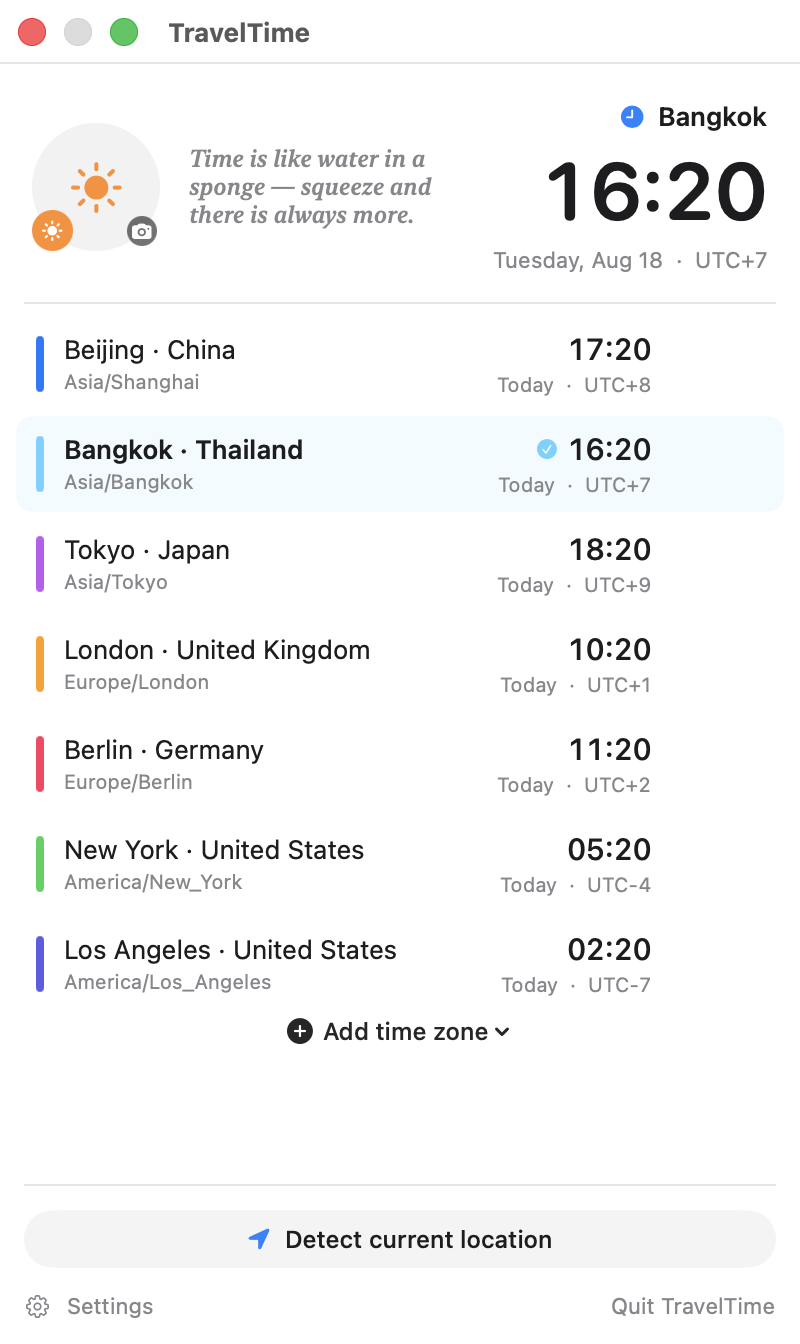
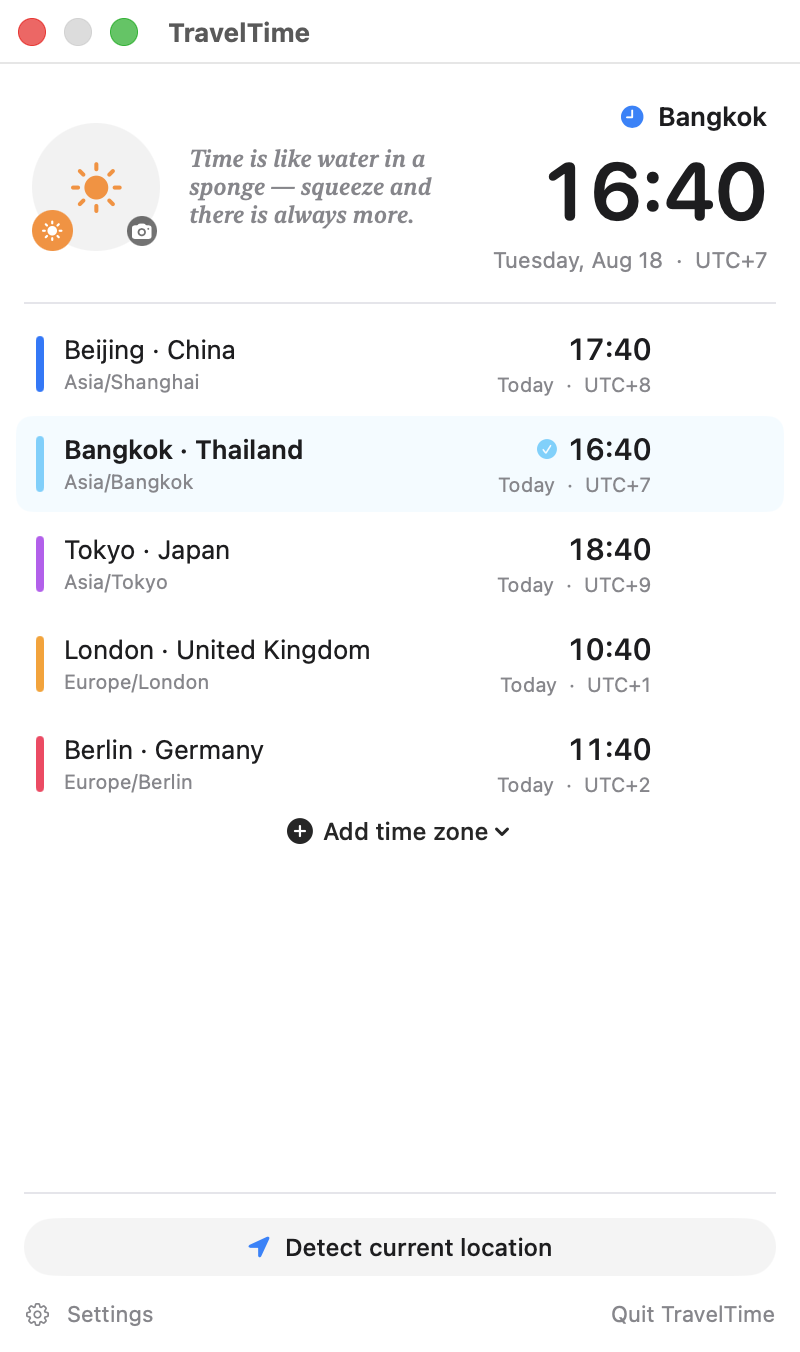
Fix panel auto-height and update-bundle resolution
Two code defects found while documenting the project (see prior
CHANGELOG entries for the read-only investigation).

AppDelegate panel height
The launch-time window height was fixed at 640 pt regardless of zone
count, because updatePanelHeight() was only reachable through store
callbacks assigned *after* the store had already loaded its zones and
fired their didSet. Measured at 672 pt for both 3 and 12 zones.

Fix:
* The sizing rule is now a pure static function
  AppDelegate.panelContentHeight(zoneCount:theme:), pinned by three new
  unit tests.
* setupPanel() calls updatePanelHeight() once the store and window
  exist, so the initial window fits the loaded zones.
* Existing didSet callbacks still resize the window on add/remove and
  on theme change.

Updater app-bundle lookup
Updater.update hardcoded tmp.appendingPathComponent("TravelTime.app")
after extraction, so every published release (named TimeZoneBar.app.zip,
extracting to TimeZoneBar.app up to and including v1.3.3) failed with
"Could not unzip the installer". Combined with the previous build.sh
release packaging, users on v1.3.3 could not upgrade in place.

Fix:
* New nonisolated static Updater.appBundle(in:) scans the unzip
  directory for the first directory with the .app extension, verified
  with three new unit tests (legacy name, current name, no .app
  present).
* update(release:) uses it, accepting both legacy and current assets.

Tests: 18/18 passing (was 12, +6 new). swift build clean.
[…]

diff --git a/Tests/TravelTimeTests/TravelTimeTests.swift b/Tests/TravelTimeTests/TravelTimeTests.swift
@@ -170,4 +170,72 @@ final class TravelTimeTests: XCTestCase {
         }
         XCTAssertEqual(seen.count, TimeZoneStore.zonePalette.count)
     }
+
+    // MARK: - Panel auto-height (AppDelegate)
+
+    /// Regression for the launch-size bug: the window stayed at its hardcoded
+    /// initial height because updatePanelHeight() was only reachable through
+    /// store callbacks assigned after the store had already loaded its zones.
+    /// The sizing rule is now a pure function; these pin it down.
+    @MainActor
+    func testPanelContentHeightScalesWithZoneCount() {
+        XCTAssertEqual(AppDelegate.panelContentHeight(zoneCount: 3, theme: .minimal), 540)
+        XCTAssertEqual(AppDelegate.panelContentHeight(zoneCount: 12, theme: .minimal), 1008)
+        XCTAssertEqual(AppDelegate.panelContentHeight(zoneCount: 3, theme: .midnight), 540)
+    }
+
+    @MainActor
+    func testPanelContentHeightEditorialUsesMoreChrome() {
+        XCTAssertEqual(AppDelegate.panelContentHeight(zoneCount: 3, theme: .editorial), 622)
+    }
+
+    @MainActor
+    func testPanelContentHeightHasMinimum() {
+        // Even a single zone must not collapse below the header+footer floor.
+        XCTAssertEqual(AppDelegate.panelContentHeight(zoneCount: 0, theme: .minimal), 460)
+        XCTAssertEqual(AppDelegate.panelContentHeight(zoneCount: 1, theme: .minimal), 460)
+    }
+
+    // MARK: - App bundle discovery (Updater)
+
+    /// Regression for the update bug: releases up to v1.3.3 extract to
+    /// TimeZoneBar.app while the updater hardcoded TravelTime.app, so the
+    /// post-unzip guard always failed ("Could not unzip the installer").
+    func testAppBundleFindsLegacyName() throws {
+        let dir = FileManager.default.temporaryDirectory
+            .appendingPathComponent("tzbar-test-legacy-\(UUID().uuidString)")
+        try FileManager.default.createDirectory(
+            at: dir.appendingPathComponent("TimeZoneBar.app"),
+            withIntermediateDirectories: true)
+        defer { try? FileManager.default.removeItem(at: dir) }
+
+        let found = Updater.appBundle(in: dir)
+        XCTAssertEqual(found?.lastPathComponent, "TimeZoneBar.app")
+    }
+
+    func testAppBundleFindsCurrentName() throws {
+        let dir = FileManager.default.temporaryDirectory
+            .appendingPathComponent("tzbar-test-current-\(UUID().uuidString)")
+        try FileManager.default.createDirectory(
+            at: dir.appendingPathComponent("TravelTime.app"),
+            withIntermediateDirectories: true)
+        defer { try? FileManager.default.removeItem(at: dir) }
+
+        let found = Updater.appBundle(in: dir)
+        XCTAssertEqual(found?.lastPathComponent, "TravelTime.app")
+    }
+
+    func testAppBundleIgnoresZipAndScratchFiles() throws {
+        let dir = FileManager.default.temporaryDirectory
+            .appendingPathComponent("tzbar-test-nobundle-\(UUID().uuidString)")
+        try FileManager.default.createDirectory(at: dir, withIntermediateDirectories: true)
+        defer { try? FileManager.default.removeItem(at: dir) }
+
+        // An extracted archive dir still holds the zip and any notes; none of
+        // these is an app bundle, so discovery must come up empty.
+        try Data("zip".utf8).write(to: dir.appendingPathComponent("TravelTime.app.zip"))
+        try Data("notes".utf8).write(to: dir.appendingPathComponent("notes.txt"))
+
+        XCTAssertNil(Updater.appBundle(in: dir))
+    }
 }

diff --git a/Sources/TimeZoneBar/AppDelegate.swift b/Sources/TimeZoneBar/AppDelegate.swift
@@ -71,17 +71,24 @@ final class AppDelegate: NSObject, NSApplicationDelegate {
         }
     }
 
+    /// Content height (points) for a given zone count and theme.
+    ///
+    /// Pure function so the sizing rule is unit-testable. The "fixed chrome"
+    /// estimate covers header (~180-240) + list top/bottom padding (~20) +
+    /// footer (~150), with extra allowance for the editorial header layout.
+    static func panelContentHeight(zoneCount: Int, theme: Theme) -> CGFloat {
+        let fixedChrome: CGFloat = theme == .editorial ? 400 : 360
+        return max(460, fixedChrome + CGFloat(zoneCount) * theme.rowHeight + 24)
+    }
+
     /// Grows / shrinks the window so it exactly fits the number of zone rows.
     private func updatePanelHeight() {
         // setupPanel may not have run yet (e.g. a zones change during init),
         // so guard the implicit-unwrapped window.
         guard let panel = self.panel else { return }
-        let rowH = store.theme.rowHeight
-        // header (~180-240) + list top/bottom padding (~20) + footer (~150)
-        let fixedChrome: CGFloat = store.theme == .editorial ? 400 : 360
-        let wanted = fixedChrome + CGFloat(store.zones.count) * rowH + 24
+        let wanted = Self.panelContentHeight(zoneCount: store.zones.count, theme: store.theme)
         let width = panel.frame.width
-        panel.setContentSize(NSSize(width: width, height: max(460, wanted)))
+        panel.setContentSize(NSSize(width: width, height: wanted))
         panel.layoutIfNeeded()
     }
 
@@ -148,6 +155,13 @@ final class AppDelegate: NSObject, NSApplicationDelegate {
         p.contentView = hosting
         p.center()
         self.panel = p
+        // Size the window for the *current* zone list. The store's
+        // onZonesChanged callback is assigned in applicationDidFinishLaunching,
+        // which runs after `private let store = TimeZoneStore()` has already
+        // loaded the zones (and fired their didSet), so the callback could
+        // never size the initial window — it stayed at the hardcoded height
+        // above no matter how many zones were loaded. This call closes that gap.
+        updatePanelHeight()
     }
 
     private func togglePanel() {

diff --git a/Sources/TimeZoneBar/Updater.swift b/Sources/TimeZoneBar/Updater.swift
@@ -148,8 +148,11 @@ final class Updater: ObservableObject {
                 return
             }
 
-            let newApp = tmp.appendingPathComponent("TravelTime.app")
-            guard FileManager.default.fileExists(atPath: newApp.path) else {
+            // The .app inside the zip may be named either TravelTime.app
+            // (current) or TimeZoneBar.app (releases up to v1.3.3). Resolve it
+            // by extension so both extract fine, then verify it is a bundle.
+            guard let newApp = Self.appBundle(in: tmp),
+                  FileManager.default.fileExists(atPath: newApp.path) else {
                 state = .error("Could not unzip the installer")
                 return
             }
@@ -210,5 +213,24 @@ final class Updater: ObservableObject {
             }
         }
         return nil
+    }
+
+    /// Finds the app bundle inside an extracted archive directory.
+    ///
+    /// Releases up to v1.3.3 named the bundle `TimeZoneBar.app` (the app's
+    /// former name); current ones use `TravelTime.app`. Resolving by the
+    /// `.app` extension instead of hardcoding a name means both extract fine.
+    /// `ditto -xk` does not produce a `__MACOSX` sibling, but it is excluded
+    /// defensively anyway.
+    nonisolated static func appBundle(in directory: URL) -> URL? {
+        let fm = FileManager.default
+        guard let entries = try? fm.contentsOfDirectory(
+            at: directory, includingPropertiesForKeys: [.isDirectoryKey], options: [.skipsHiddenFiles]
+        ) else { return nil }
+        return entries.first {
+            guard $0.pathExtension == "app", $0.lastPathComponent != "__MACOSX" else { return false }
+            let isDir = (try? $0.resourceValues(forKeys: [.isDirectoryKey]))?.isDirectory
+            return isDir == true
+        }
     }
 }

diff --git a/README.md b/README.md
@@ -38,12 +38,12 @@ No dependencies, no Electron, no telemetry, no account. One ~700 KB binary.
 | **One-click zone switching** | Click a row to move your entire Mac to that zone. Uses the standard macOS authorization dialog — no password is ever stored or seen by the app. |
 | **Day/night at a glance** | A sun or moon per row, computed from a solar-elevation approximation, tells you whether it is a reasonable hour to call. |
 | **DST badge** | Zones currently on daylight saving time are tagged, so a shifted offset is never a surprise. |
-| **Live zone management** | Hover a row to replace or remove it; add from 24 preset cities. Duplicate IANA IDs are handled correctly — Berlin and Frankfurt can coexist as separate rows. |
+| **Live zone management** | Hover a row to replace or remove it; add from 24 preset cities. The panel grows or shrinks to fit the list. Duplicate IANA IDs are handled correctly — Berlin and Frankfurt can coexist as separate rows. |
 | **IP geolocation** | "Detect current location" resolves your city and zone, previews it, and switches on confirmation. |
 | **Conflict detection** | If macOS *Set time zone automatically* is on, it will silently revert manual switches. The panel warns you and deep-links to the relevant System Settings pane. |
 | **Four themes** | Minimal, Glass, Midnight, Editorial — switchable at runtime from Settings → Appearance. |
 | **Custom avatar** | Drop in any image; stored under `~/Library/Application Support/TravelTime/`. |
-| **In-app updates** | Checks GitHub Releases and verifies the download against a SHA-256 published in the release notes before installing. See [Known limitations](#known-limitations). |
+| **In-app updates** | Checks GitHub Releases and verifies the download against a SHA-256 published in the release notes before installing. Works for both the current and the legacy `TimeZoneBar.app`-named assets. |
 
 ## Themes
 
@@ -164,7 +164,9 @@ Design notes worth knowing before you touch the code:
 - **Both geo endpoints are HTTPS** (`ip-api.com`, falling back to `ipapi.co`) for
   the same reason: a spoofable plaintext response would feed a privileged call.
 - **Updates fail closed.** If no SHA-256 is found in the release notes, or it does
-  not match the download, installation is aborted.
+  not match the download, installation is aborted. The post-extraction bundle is
+  located by `.app` extension (not by name), so legacy `TimeZoneBar.app` and
+  current `TravelTime.app` releases both upgrade in place.
 - **Zone rows are identified by UUID, not IANA ID**, because IANA IDs are not
   unique per city (Berlin and Frankfurt share `Europe/Berlin`). Persisted
   payloads from before the UUID field migrate on decode.
@@ -178,17 +180,6 @@ Design notes worth knowing before you touch the code:
 
 Documented rather than hidden:
 
-- **In-app update cannot install the currently published release.** Assets up to
-  and including v1.3.3 are named `TimeZoneBar.app.zip` (the app's former name)
-  and unzip to `TimeZoneBar.app`, while `Updater.swift` looks for
-  `TravelTime.app` after extraction. `./build.sh release` now produces a
-  correctly named `TravelTime-<version>.app.zip`, so the next release fixes
-  this; until then, update manually.
-- **The panel does not resize to fit your zones.** `AppDelegate` contains an
-  auto-height routine, but it is only wired to store callbacks that are assigned
-  after the store has already initialised, so the window stays at its initial
-  size. Measured identical (672pt) with 3 zones and with 12. With many zones the
-  list scrolls instead of growing.
 - **Not notarized.** Every release needs the Gatekeeper step above.
 - **Day/night is approximate.** Latitude/longitude come from a 23-entry lookup
   table; zones outside it fall back to a longitude derived from the UTC offset at

diff --git a/CHANGELOG.md b/CHANGELOG.md
@@ -35,16 +35,24 @@ and this project adheres to [Semantic Versioning](https://semver.org/spec/v2.0.0
 - Removed a FAQ entry that told users to enable the menu bar icon under
   *Siri & Spotlight → Spotlight Privacy*. No such mechanism exists, and nothing
   in the codebase relates to Spotlight.
+- **Panel did not size to its zones at launch.** `AppDelegate` only called
+  `updatePanelHeight()` from store callbacks assigned *after* the store had
+  already loaded its zones, so the initial window stayed at the hardcoded 640
+  pt regardless of zone count (measured 672 pt at both 3 and 12 zones). The
+  sizing rule is now a pure static function `AppDelegate.panelContentHeight`,
+  exercised by three new unit tests, and `setupPanel()` calls it explicitly
+  once the store and window exist.
+- **In-app update could not install legacy releases.** `Updater` hardcoded
+  `TravelTime.app` after extraction, so any release that extracted to the
+  former `TimeZoneBar.app` (every published release up to and including
+  v1.3.3) failed with "Could not unzip the installer". Resolution now scans
+  the unzip directory for the first `.app` bundle, extracted into a tested
+  pure helper `Updater.appBundle(in:)`. Combined with the new
+  `./build.sh release` flow, users on v1.3.3 can now upgrade in place.
 
 ### Known issues
-- In-app update cannot install releases up to and including v1.3.3: those assets
-  are named `TimeZoneBar.app.zip` and extract to `TimeZoneBar.app`, while
-  `Updater.swift` expects `TravelTime.app`. `./build.sh release` now emits a
-  correctly named archive, so the next published release resolves this.
-- The panel does not auto-size to the number of zones. `updatePanelHeight()`
-  exists but is only reachable through store callbacks assigned after the store
-  has already initialised, so the window keeps its initial height — measured
-  identical at 3 and at 12 zones.
+- *None at the time of writing. If you find one, open an issue — see
+  `CONTRIBUTING.md` for the report template.*
 
 ## [1.3.3] — 2026-08-17
 
